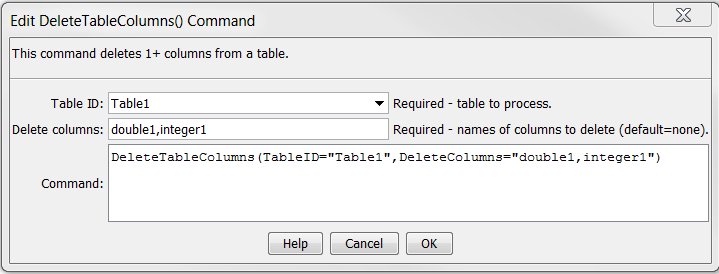
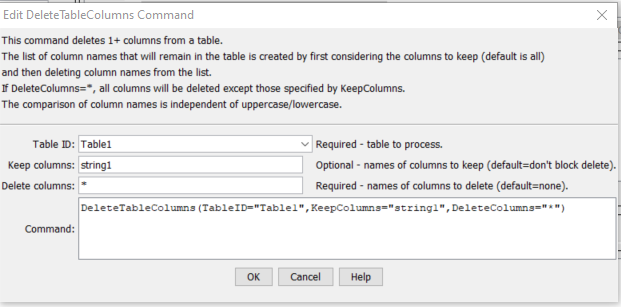
Update doc for table command changes, issue #27
DeleteTableRows has new Condition parameter.
DeleteTableColumns as new KeepColumns parameter.
RenameTableColumns command is new.

Changed region(s): [[0.0, 0.0, 1.0, 1.0]]

diff --git a/mkdocs-project/docs/command-ref/DeleteTableRows/DeleteTableRows.md b/mkdocs-project/docs/command-ref/DeleteTableRows/DeleteTableRows.md
@@ -11,16 +11,26 @@
 
 ## Overview ##
 
-The `DeleteTableRows` command deletes a specified row from a table.
+The `DeleteTableRows` command deletes specified rows from a table.
 
 ## Command Editor ##
 
 The following dialog is used to edit the command and illustrates the syntax of the command.
 
-![DeleteTableRows](DeleteTableRows.png)
+**<p style="text-align: center;">
+![DeleteTableRows_Condition](DeleteTableRows_Condition.png)
+</p>**
 
 **<p style="text-align: center;">
-`DeleteTableRows` Command Editor (<a href="../DeleteTableRows.png">see also the full-size image</a>)
+`DeleteTableRows` Command Editor for Condition Parameter (<a href="../DeleteTableRows_Condition.png">see also the full-size image</a>)
+</p>**
+
+**<p style="text-align: center;">
+![DeleteTableRows_RowNum](DeleteTableRows_RowNum.png)
+</p>**
+
+**<p style="text-align: center;">
+`DeleteTableRows` Command Editor for Row Number Parameter (<a href="../DeleteTableRows_RowNum.png">see also the full-size image</a>)
 </p>**
 
 ## Command Syntax ##
@@ -37,7 +47,28 @@ Command Parameters
 | **Parameter**&nbsp;&nbsp;&nbsp;&nbsp;&nbsp;&nbsp;&nbsp;&nbsp;&nbsp;&nbsp;&nbsp;&nbsp;&nbsp;&nbsp;&nbsp;&nbsp;&nbsp;&nbsp;&nbsp;&nbsp;&nbsp;&nbsp;&nbsp;&nbsp;&nbsp;&nbsp; | **Description** | **Default**&nbsp;&nbsp;&nbsp;&nbsp;&nbsp;&nbsp;&nbsp;&nbsp;&nbsp;&nbsp; |
 | --------------|-----------------|----------------- |
 |`TableID`<br>**required**|The table identifier for the table to process. Can specify with `${Property}`.|None - must be specified.|
-|`DeleteRowNumbers`<br>**required**|The row number (1+) or last to delete the last row. Can use `${Property}` to specify row number.|None - must be specified.|
+|`Condition`|A condition to match rows to be deleted. Can use `${Property}` to specify row number.  See additional information below.|Condition or row number must be specified.|
+|`DeleteRowNumbers`|The row number (1+) or last to delete the last row. Can use `${Property}` to specify row number.|Condition or row number must be specified.|
+
+The `Condition` parameter, if specified, is restricted to a simple comparison:
+
+```
+ColumnName operator Value
+```
+
+The values can be integers, floating point numbers, strings, or processor properties
+specified with `${Property}` that
+evaluate to primitive types. The operator is one of the following (more functionality will be added in the
+future). For strings, A is less than Z, etc.
+
+* `<`
+* `<=`
+* `>`
+* `>=`
+* `==` (use this to test equality – do not use a single equal sign)
+* `!=`
+* `contains` (only for string comparison)
+* `!contains` (only for string comparison)
 
 ## Examples ##
 

diff --git a/mkdocs-project/docs/command-ref/DeleteTableColumns/DeleteTableColumns.md b/mkdocs-project/docs/command-ref/DeleteTableColumns/DeleteTableColumns.md
@@ -12,12 +12,16 @@
 ## Overview ##
 
 The `DeleteTableColumns` deletes specified columns from a table.
+The list of column names to delete is is determined from the `DeleteColumns` parameter,
+except that any columns specified by the `KeepColumns` are not deleted.
 
 ## Command Editor ##
 
 The following dialog is used to edit the command and illustrates the syntax of the command.
 
+**<p style="text-align: center;">
 ![DeleteTableColumns](DeleteTableColumns.png)
+</p>**
 
 **<p style="text-align: center;">
 `DeleteTableColumns` Command Editor (<a href="../DeleteTableColumns.png">see also the full-size image</a>)
@@ -37,7 +41,8 @@ Command Parameters
 | **Parameter**&nbsp;&nbsp;&nbsp;&nbsp;&nbsp;&nbsp;&nbsp;&nbsp;&nbsp;&nbsp;&nbsp;&nbsp;&nbsp;&nbsp;&nbsp;&nbsp;&nbsp;&nbsp;&nbsp;&nbsp;&nbsp;&nbsp;&nbsp;&nbsp;&nbsp;&nbsp; | **Description** | **Default**&nbsp;&nbsp;&nbsp;&nbsp;&nbsp;&nbsp;&nbsp;&nbsp;&nbsp;&nbsp; |
 | --------------|-----------------|----------------- |
 |`TableID`<br>**required**|The table identifier for the table to process. Can specify with `${Property}`.|None - must be specified.|
-|`DeleteRowNumbers`<br>**required**|The names of columns to delete, separated by commas. Can use `${Property}` to specify column names.|None - must be specified.|
+|`KeepColumns`<br>**required**|The names of columns to keep, separated by commas. Can use `${Property}` to specify column names.  Each column name can also contain `*` wildcard.|None - must be specified.|
+|`DeleteColumns`<br>**required**|The names of columns to delete, separated by commas. Can use `${Property}` to specify column names.  Each column name can also contain `*` wildcard.|None - must be specified.|
 
 ## Examples ##
 
@@ -67,3 +72,4 @@ DeleteTableColumns(TableID="Table1",DeleteColumns="double1,integer1")
 
 * [`DeleteTableRows`](../DeleteTableRows/DeleteTableRows.md) command
 * [`ReadTableFromDelimitedFile`](../ReadTableFromDelimitedFile/ReadTableFromDelimitedFile.md) command
+* [`RenameTableColumns`](../RenameTableColumns/RenameTableColumns.md) command

diff --git a/mkdocs-project/docs/command-ref/RenameTableColumns/RenameTableColumns.md b/mkdocs-project/docs/command-ref/RenameTableColumns/RenameTableColumns.md
@@ -1,0 +1,52 @@
+# TSTool / Command / RenameTableColumns #
+
+* [Overview](#overview)
+* [Command Editor](#command-editor)
+* [Command Syntax](#command-syntax)
+* [Examples](#examples)
+* [Troubleshooting](#troubleshooting)
+* [See Also](#see-also)
+
+-------------------------
+
+## Overview ##
+
+The `RenameTableColumns` command renames table columns.
+
+## Command Editor ##
+
+The following dialog is used to edit the command and illustrates the syntax of the command
+
+**<p style="text-align: center;">
+![RenameTableColumns](RenameTableColumns.png)
+</p>**
+
+**<p style="text-align: center;">
+`RenameTableColumns` Command Editor (<a href="../RenameTableColumns.png">see also the full-size image</a>)
+</p>**
+
+## Command Syntax ##
+
+The command syntax is as follows:
+
+```text
+RenameTableColumns(Parameter="Value",...)
+```
+**<p style="text-align: center;">
+Command Parameters
+</p>**
+
+| **Parameter**&inbsp;&nbsp;&nbsp;&nbsp;&nbsp;&nbsp;&nbsp;&nbsp;&nbsp;&nbsp;&nbsp;&nbsp;&nbsp;&nbsp;&nbsp;&nbsp;&nbsp;&nbsp;&nbsp;&nbsp;&nbsp;&nbsp;&nbsp;&nbsp;&nbsp;&nbsp;&nbsp;&nbsp;&nbsp;&nbsp;&nbsp;&nbsp;&nbsp;&nbsp; | **Description** | **Default**&nbsp;&nbsp;&nbsp;&nbsp;&nbsp;&nbsp;&nbsp;&nbsp;&nbsp;&nbsp;&nbsp;&nbsp;&nbsp;&nbsp;&nbsp;&nbsp; |
+| --------------|-----------------|----------------- |
+|`TableID`<br>**required**|The identifier for the table to be modified.  Can be specified using `${Property}.`|None – must be specified.|
+|`ColumnMap`<br>**required**|Map of column old and new names, can use `${Property}`, syntax:<br>`OriginalColumnName1:NewColumnName1, OriginalColumnName2:NewColumnName2`|None - must be specified.|
+
+## Examples ##
+
+See the [automated tests](https://github.com/OpenCDSS/cdss-app-tstool-test/tree/master/test/regression/commands/general/RenameTableColumns).
+
+## Troubleshooting ##
+
+## See Also ##
+
+* [`DeleteTableColumns`](../DeleteTableColumns/DeleteTableColumns.md) command

diff --git a/mkdocs-project/docs/command-ref/JoinTables/JoinTables.md b/mkdocs-project/docs/command-ref/JoinTables/JoinTables.md
@@ -23,7 +23,9 @@ The functionality of the command is similar to database SQL join statements usin
 The following dialog is used to edit the command and illustrates the syntax of the command
 (in this case illustrating how values in a column named `LocationID` are copied to a new table).  
 
+**<p style="text-align: center;">
 ![JoinTables](JoinTables.png)
+</p>**
 
 **<p style="text-align: center;">
 `JoinTables` Command Editor (<a href="../JoinTables.png">see also the full-size image</a>)
